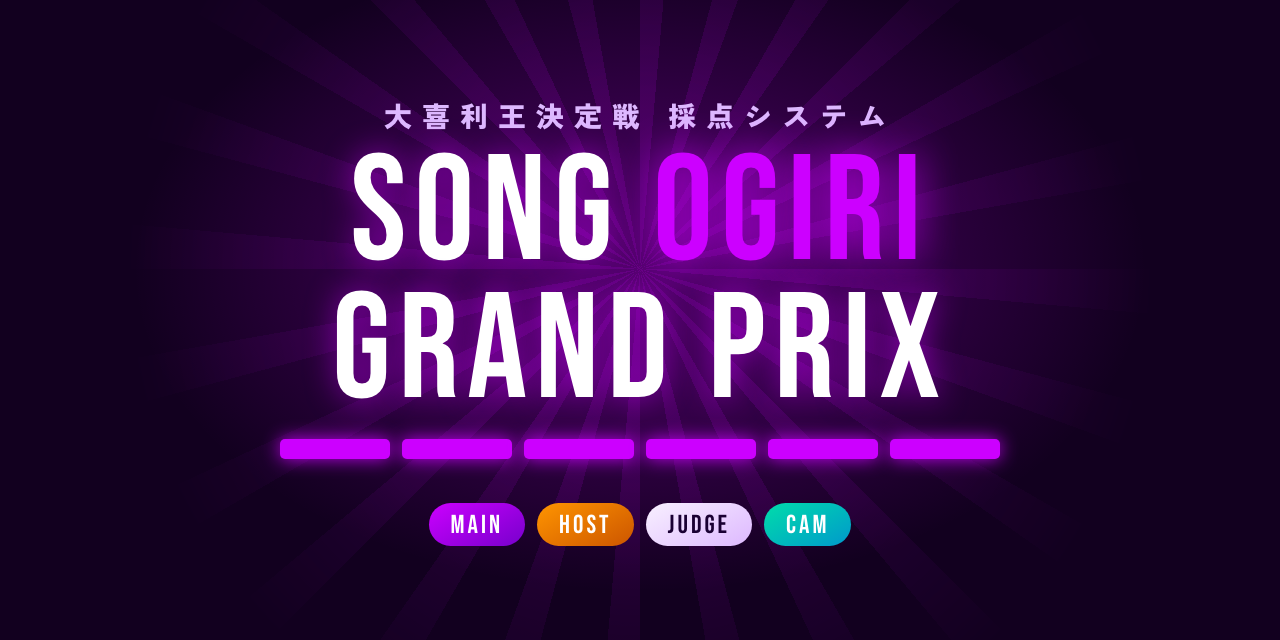
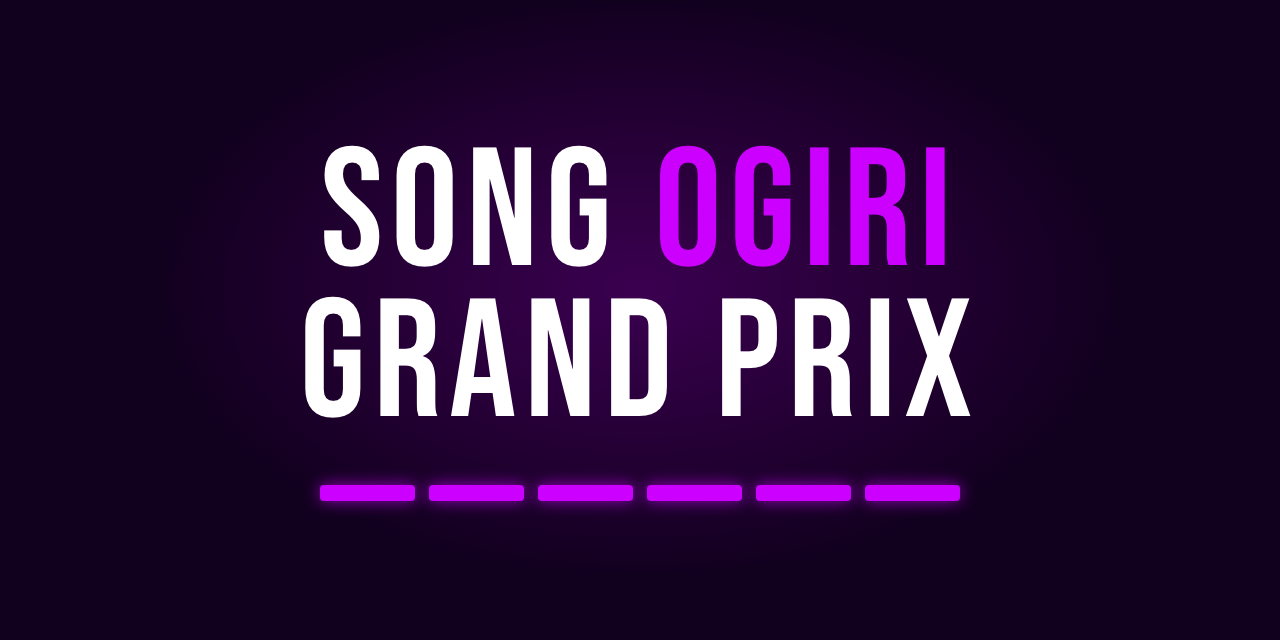
docs: simplify the social preview to the title and the vote meter

Changed region(s): [[0.1875, 0.0, 0.8125, 0.875]]

diff --git a/docs/images/src/social-preview.html b/docs/images/src/social-preview.html
@@ -1,39 +1,28 @@
 <!DOCTYPE html>
 <!-- GitHub の Social preview（1280×640, 1MB 以下）。scripts/render-images.sh で docs/images/social-preview.png に書き出す。
-     一覧やリンクカードで縮小表示されるので、要素は最小限にして周囲 40px 以上の余白を取る -->
+     リンクカードではリポジトリ名と説明文が横に出るので、画像はタイトルと投票メーターだけにしている -->
 <html lang="ja">
 <head>
 <meta charset="UTF-8">
-<link href="https://fonts.googleapis.com/css2?family=Bebas+Neue&family=Zen+Kaku+Gothic+New:wght@700;900&display=block" rel="stylesheet">
+<link href="https://fonts.googleapis.com/css2?family=Bebas+Neue&display=block" rel="stylesheet">
 <link rel="stylesheet" href="common.css">
 <style>
 body { width: 1280px; height: 640px; }
 .stage {
-  position: relative; width: 100%; height: 100%; overflow: hidden;
-  display: flex; flex-direction: column; align-items: center; justify-content: center;
-  background: radial-gradient(ellipse 55% 70% at 50% 42%, rgba(204,0,255,0.34), transparent 72%), var(--ink);
+  width: 100%; height: 100%;
+  display: flex; flex-direction: column; align-items: center; justify-content: center; gap: 44px;
+  background: radial-gradient(ellipse 50% 60% at 50% 45%, rgba(204,0,255,0.22), transparent 75%), var(--ink);
 }
-.burst { position: absolute; left: 50%; top: 42%; width: 1400px; height: 1400px; transform: translate(-50%, -50%);
-  background: repeating-conic-gradient(rgba(204,0,255,0.13) 0 5deg, transparent 5deg 15deg);
-  -webkit-mask: radial-gradient(circle, #000 0 18%, transparent 52%); mask: radial-gradient(circle, #000 0 18%, transparent 52%);
-}
-.kicker { position: relative; font-size: 28px; font-weight: 900; letter-spacing: 10px; color: var(--magenta-soft); }
-.title { position: relative; font-family: 'Bebas Neue', sans-serif; font-size: 150px; line-height: 0.92; letter-spacing: 8px; text-align: center; color: #fff; margin-top: 10px;
-  text-shadow: 0 0 30px rgba(204,0,255,0.55); }
-.title span { color: var(--magenta); text-shadow: 0 0 40px rgba(204,0,255,0.9); }
-.meter { position: relative; display: flex; gap: 12px; width: 720px; margin-top: 18px; }
-.meter i { flex: 1; height: 20px; border-radius: 5px; background: var(--magenta); box-shadow: 0 0 18px rgba(204,0,255,0.9); }
-.chips { position: relative; display: flex; gap: 12px; margin-top: 44px; }
-.chips .chip { font-size: 26px; padding: 7px 22px 5px; }
+.title { font-family: 'Bebas Neue', sans-serif; font-size: 168px; line-height: 0.9; letter-spacing: 8px; color: #fff; text-align: center; }
+.title span { color: var(--magenta); }
+.meter { display: flex; gap: 14px; width: 640px; }
+.meter i { flex: 1; height: 16px; border-radius: 4px; background: var(--magenta); box-shadow: 0 0 16px rgba(204,0,255,0.7); }
 </style>
 </head>
 <body>
 <div class="stage">
-  <div class="burst"></div>
-  <div class="kicker">大喜利王決定戦 採点システム</div>
   <div class="title">SONG <span>OGIRI</span><br>GRAND PRIX</div>
   <div class="meter"><i></i><i></i><i></i><i></i><i></i><i></i></div>
-  <div class="chips"><span class="chip main">MAIN</span><span class="chip host">HOST</span><span class="chip judge">JUDGE</span><span class="chip cam">CAM</span></div>
 </div>
 </body>
 </html>
